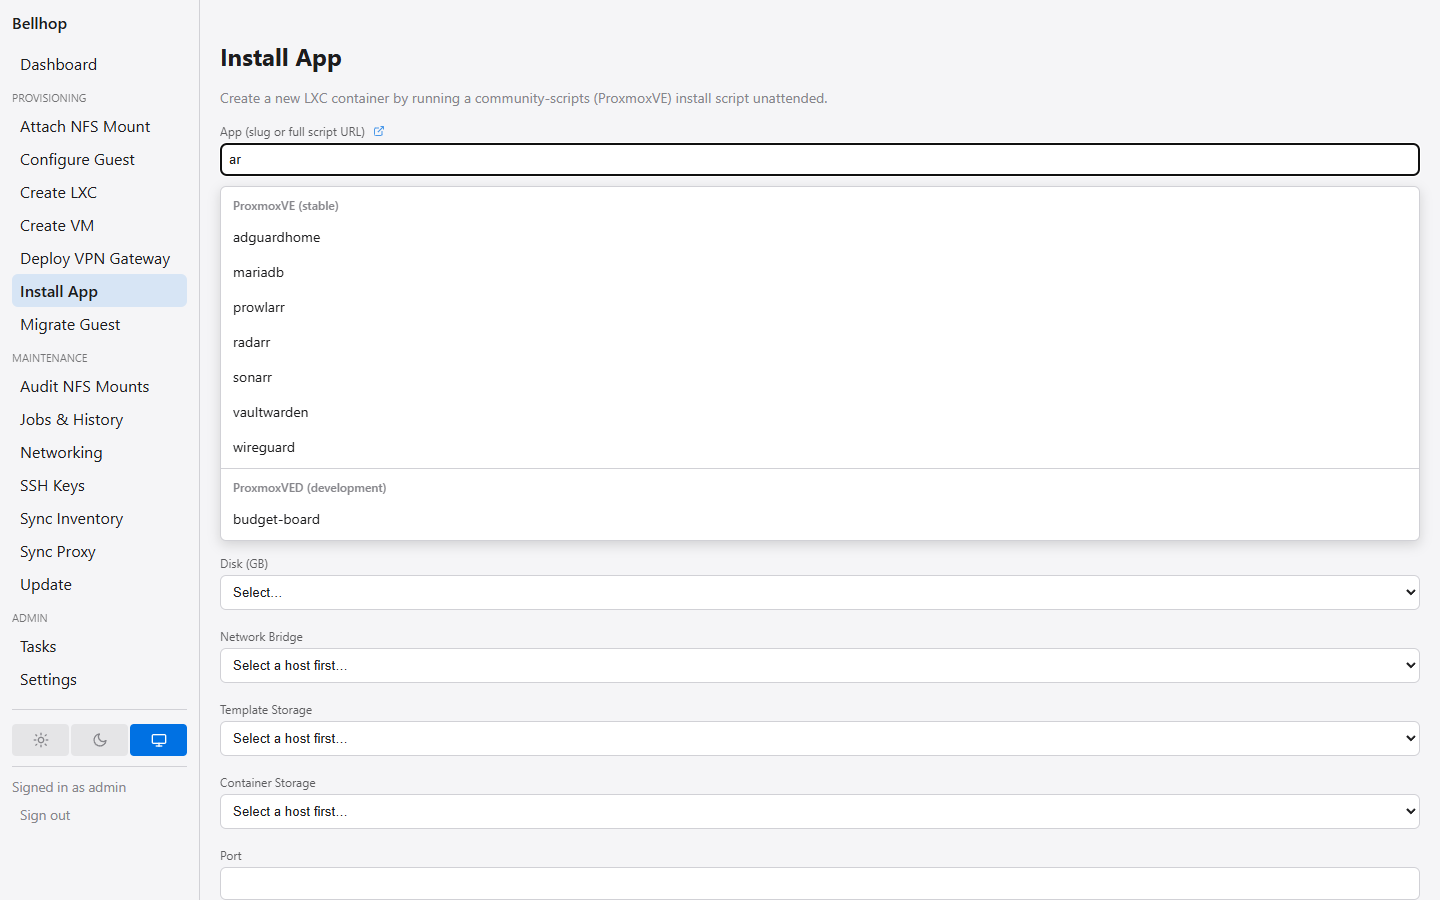
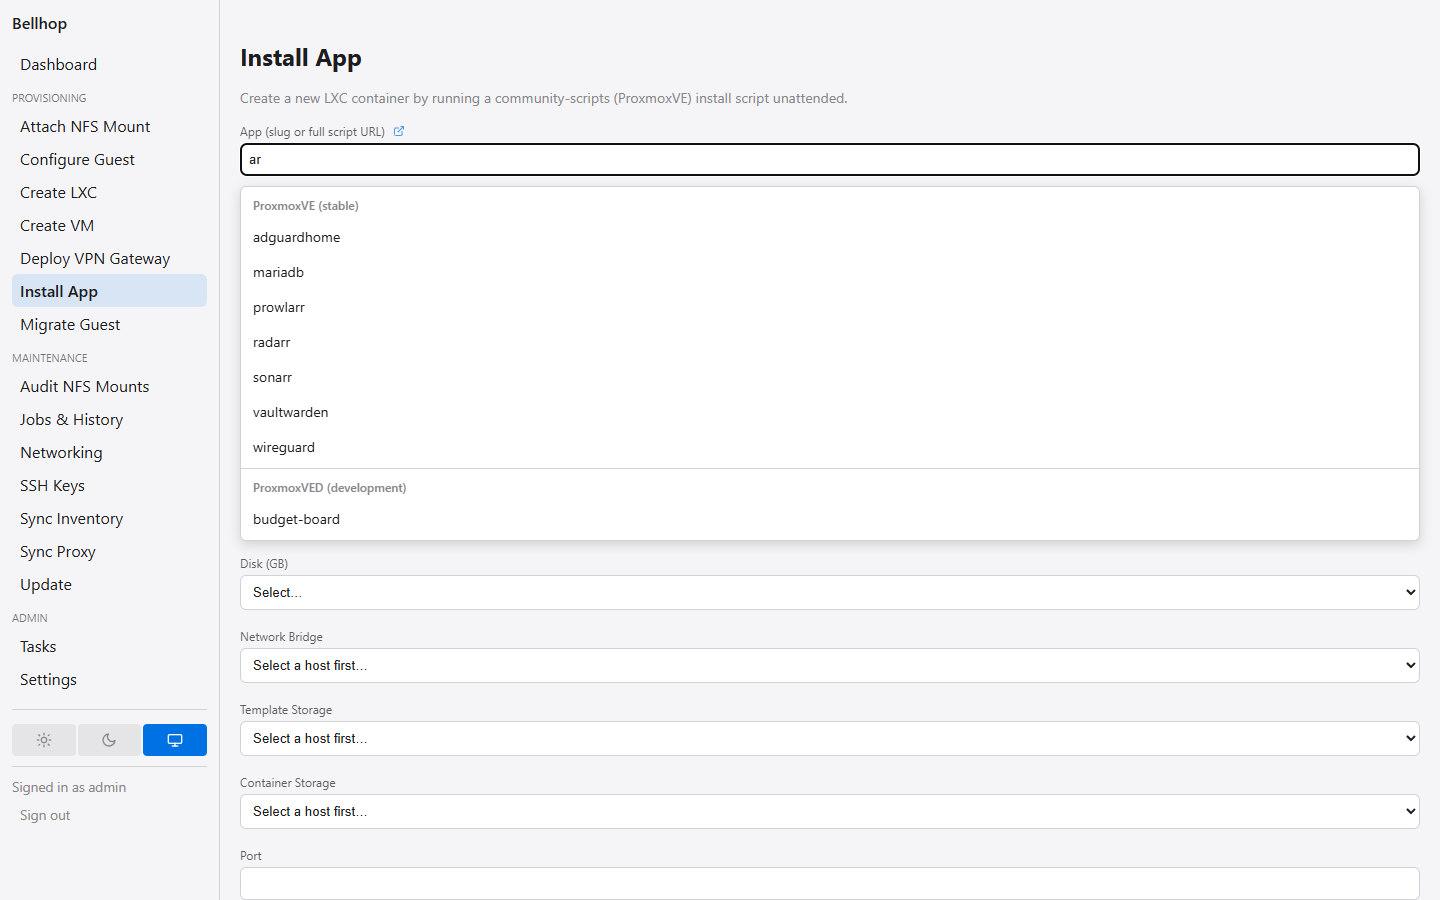
Keep sidebar nav links on one line at desktop width (#74) (#76)
* Specify one-line sidebar nav links (#74)

Claude-Session: https://claude.ai/code/session_01B4st1jNszQVe28BDeVWveJ

* Plan one-line sidebar nav links (#74)

Claude-Session: https://claude.ai/code/session_01B4st1jNszQVe28BDeVWveJ

* Generate tasks for one-line sidebar nav links (#74)

Claude-Session: https://claude.ai/code/session_01B4st1jNszQVe28BDeVWveJ

* Keep sidebar nav links on one line at desktop width (#74, US1, US2)

The 200px sidebar fit "Deploy VPN Gateway" only while no scroll bar
showed; once the nav overflowed, the classic scroll bar narrowed the
column, the label wrapped, and the list grew taller still. The column is
now 220px, never shrinks in the flex row, and its links never wrap
(an ellipsis catches any future longer label). The mobile drawer keeps
its own 240px rule.

Claude-Session: https://claude.ai/code/session_01B4st1jNszQVe28BDeVWveJ

* Regenerate docs screenshots for the wider sidebar; mark #74 verification tasks complete

Typecheck clean, 2770/2770 tests pass (2 skipped), web build succeeds.
The phone screenshot and the guest-access modal crop are unchanged.

Claude-Session: https://claude.ai/code/session_01B4st1jNszQVe28BDeVWveJ

---------

diff --git a/web-client/src/index.css b/web-client/src/index.css
@@ -39,9 +39,10 @@
 * { box-sizing: border-box; }
 body { margin: 0; font-family: system-ui, sans-serif; background: var(--bg-primary); color: var(--text-primary); }
 .app-shell { display: flex; height: 100vh; }
-.sidebar { width: 200px; border-right: 1px solid var(--border); padding: 12px; overflow-y: auto; }
+/* 220px fits the widest nav label ("Deploy VPN Gateway") even with a classic scroll bar showing, and links never wrap (issue #74) -- a wrapped label made the list taller, which brought the scroll bar, which narrowed the column further. */
+.sidebar { width: 220px; flex-shrink: 0; border-right: 1px solid var(--border); padding: 12px; overflow-y: auto; }
 .sidebar .brand { font-weight: 600; margin-bottom: 14px; }
-.sidebar a { display: block; padding: 6px 8px; border-radius: 6px; text-decoration: none; color: inherit; }
+.sidebar a { display: block; padding: 6px 8px; border-radius: 6px; text-decoration: none; color: inherit; white-space: nowrap; overflow: hidden; text-overflow: ellipsis; }
 .sidebar a.active { background: var(--selected-bg); font-weight: 600; }
 .nav-group-label { margin: 10px 0 4px; opacity: 0.6; text-transform: uppercase; font-size: 11px; }
 

diff --git a/specs/074-widen-sidebar/spec.md b/specs/074-widen-sidebar/spec.md
@@ -1,0 +1,80 @@
+# Feature Specification: Widen the desktop sidebar so nav links stay on one line
+
+**Feature Branch**: `issue-74-widen-sidebar`
+
+**Created**: 2026-10-04
+
+**Status**: Draft
+
+**Input**: Issue #74 — the desktop sidebar is too narrow for the "Deploy VPN Gateway" nav link; the label wraps onto a second line, which makes the nav list tall enough to show a vertical scroll bar in the sidebar.
+
+## Background
+
+The desktop sidebar is a fixed 200px column. Measured in the demo instance, "Deploy VPN Gateway" needs about 150px of text against a usable width of about 159px, so it fits only while the sidebar shows no scroll bar. Once the nav list is tall enough to scroll (a real deployment adds the Users and Permissions links and the impersonation picker to what the demo shows), a classic always-visible scroll bar (about 15px on Windows) narrows the column, the label wraps, and the wrapped line makes the list taller still. The wrap and the scroll bar feed each other.
+
+## User Scenarios & Testing *(mandatory)*
+
+### User Story 1 - Every nav link reads on one line at desktop width (Priority: P1)
+
+An operator using the web UI on a desktop browser sees every sidebar link, including "Deploy VPN Gateway", on a single line, and the sidebar does not show a scroll bar at a normal desktop window height.
+
+**Why this priority**: This is the whole issue — the wrapped label looks broken and the scroll bar it causes wastes width and suggests hidden content.
+
+**Independent Test**: Open the web UI at a desktop width (for example a 1920x1080 window) as an admin, so the full admin nav shows; check that no link wraps and the sidebar has no scroll bar.
+
+**Acceptance Scenarios**:
+
+1. **Given** a desktop-width window, **When** the sidebar renders, **Then** every nav link occupies exactly one line.
+2. **Given** a desktop-width window of normal height (1920x1080) and an admin with the full nav (Users, Permissions, Settings, impersonation picker), **When** the sidebar renders, **Then** its content fits without a vertical scroll bar.
+3. **Given** a shorter window where the nav does need to scroll, **When** the scroll bar appears, **Then** no link wraps because of the narrower column.
+
+---
+
+### User Story 2 - The mobile drawer is unchanged (Priority: P2)
+
+An operator on a phone (viewport 640px wide or narrower) opens the off-canvas navigation drawer and sees it exactly as before: same width, every link readable, closing on backdrop tap or link tap.
+
+**Why this priority**: Mobile is a first-class target; the fix must not regress it.
+
+**Independent Test**: Open the web UI at a 390px-wide viewport, open the drawer, and compare against the current behavior.
+
+**Acceptance Scenarios**:
+
+1. **Given** a viewport of 640px or narrower, **When** the drawer is opened, **Then** it keeps its existing width and every link is fully readable on one line.
+
+### Edge Cases
+
+- A future nav label longer than the column: it stays on one line and is truncated with an ellipsis rather than wrapping or widening the layout.
+- Very short windows: the sidebar may still scroll, which is expected; links still do not wrap.
+- Larger browser text size or zoom: links stay on one line (truncating if necessary) rather than wrapping.
+
+## Requirements *(mandatory)*
+
+### Functional Requirements
+
+- **FR-001**: At desktop widths (above 640px), the sidebar MUST be wide enough that every current nav link label fits on one line, with room for a classic scroll bar.
+- **FR-002**: Sidebar nav links MUST never wrap onto a second line at any width; a label that does not fit MUST be truncated with an ellipsis.
+- **FR-003**: At a 1920x1080 desktop window with the full admin nav, the sidebar MUST show no vertical scroll bar.
+- **FR-004**: The mobile off-canvas drawer (640px and narrower) MUST keep its existing width and behavior.
+- **FR-005**: The main content area MUST still fill the remaining width; the wider sidebar MUST NOT introduce horizontal page scrolling at common desktop widths (1280px and up).
+
+### Non-goals
+
+- Reordering, renaming, or regrouping nav items.
+- Changing the sidebar's vertical spacing.
+- A collapsible or resizable sidebar.
+
+## Success Criteria *(mandatory)*
+
+### Measurable Outcomes
+
+- **SC-001**: 0 nav links render on more than one line at desktop width, with or without a scroll bar showing.
+- **SC-002**: At a 1920x1080 window with the full admin nav, the sidebar content height is no greater than its visible height (no scroll bar).
+- **SC-003**: At a 390px-wide viewport, the drawer's width and link layout match the current release.
+
+## Assumptions
+
+- A 220px column is enough: the widest current label is about 150px of text, plus 16px link padding, 24px sidebar padding, a 1px border, and about 15px for a classic scroll bar (about 206px total).
+- "Normal desktop height" means a 1920x1080 window (roughly 950px of usable viewport height).
+- Only the web client stylesheet changes; no server or API behavior is affected.
+- Verification is a browser check at desktop and mobile widths; the project has no automated CSS layout tests.

diff --git a/specs/074-widen-sidebar/tasks.md b/specs/074-widen-sidebar/tasks.md
@@ -1,0 +1,60 @@
+---
+
+description: "Task list for #74, widen the desktop sidebar"
+---
+
+# Tasks: Widen the desktop sidebar so nav links stay on one line
+
+**Input**: Design documents from `specs/074-widen-sidebar/`
+
+**Prerequisites**: plan.md, spec.md, research.md, quickstart.md
+
+**Tests**: No automated tests are requested. The project has no CSS layout tests; each story is verified in a browser per quickstart.md, and the existing suites are run as regression checks.
+
+## Phase 1: Setup
+
+No setup: the worktree has its dependencies installed and the demo instance (`npm run demo`) is available.
+
+## Phase 2: Foundational
+
+None.
+
+## Phase 3: User Story 1 - Every nav link reads on one line at desktop width (Priority: P1) 🎯 MVP
+
+**Goal**: At desktop width, no sidebar link wraps and, at 1920x1080 with the full admin nav, the sidebar shows no scroll bar.
+
+**Independent Test**: quickstart.md steps 1-4.
+
+- [x] T001 [US1] In `web-client/src/index.css`, change the desktop `.sidebar` rule from `width: 200px` to `width: 220px` and add `flex-shrink: 0` (research R2, R3); leave the 640px media query's `.sidebar` rule untouched
+- [x] T002 [US1] In `web-client/src/index.css`, add `white-space: nowrap; overflow: hidden; text-overflow: ellipsis;` to the existing `.sidebar a` rule (research R3)
+- [x] T003 [US1] Update the "static 200px column" sentence in the "Web UI responsiveness/theming" bullet of `CLAUDE.md` to describe the 220px column whose links never wrap (truncating with an ellipsis)
+- [x] T004 [US1] Rebuild (`npm run web:build`) and run quickstart.md steps 1-4 against `npm run demo` at a 1920x1080 window: sidebar 220px, no link taller than one line, no scroll bar with the admin nav simulated, still one line when the window is short enough to scroll, no horizontal page scroll at 1280px
+
+**Checkpoint**: US1 complete and verified.
+
+## Phase 4: User Story 2 - The mobile drawer is unchanged (Priority: P2)
+
+**Goal**: The ≤640px drawer keeps its 240px width and behavior.
+
+**Independent Test**: quickstart.md step 5.
+
+- [x] T005 [US2] Run quickstart.md step 5 at a 390px-wide viewport against `npm run demo` (built from T001-T002's `web-client/src/index.css`): drawer 240px wide, every link on one line, backdrop tap closes it
+
+## Phase 5: Polish & Cross-Cutting Concerns
+
+- [x] T006 Regenerate the docs screenshots with `npm run docs:screenshots` into `docs/images/` and check each by eye for the wider sidebar and example-only values (constitution Principle I)
+- [x] T007 Run `npm run typecheck`, `npm test`, and `npm run web:build`; all pass
+
+## Dependencies & Execution Order
+
+- T001 → T002 (same file) → T004; T003 is independent of the CSS.
+- US2 (T005) depends on T001-T002 only, not on US1's verification.
+- T006 depends on T001-T002; T007 runs last.
+
+## Parallel Opportunities
+
+- T003 [docs] can be done alongside T001-T002; T004 and T005 are both browser checks against the same demo build and can run back to back in one session.
+
+## Implementation Strategy
+
+MVP is US1 (T001-T004). US2 is a verification-only story confirming no regression. Commit US1 and US2 together since they share the one CSS change, then the screenshots and regression checks.

diff --git a/specs/074-widen-sidebar/plan.md b/specs/074-widen-sidebar/plan.md
@@ -1,0 +1,70 @@
+# Implementation Plan: Widen the desktop sidebar so nav links stay on one line
+
+**Branch**: `issue-74-widen-sidebar` | **Date**: 2026-10-04 | **Spec**: [spec.md](spec.md)
+
+**Input**: Feature specification from `specs/074-widen-sidebar/spec.md`
+
+## Summary
+
+The desktop sidebar is 200px wide and its links may wrap. "Deploy VPN Gateway" fits only while no scroll bar shows; once the nav scrolls, the scroll bar narrows the column, the label wraps, and the list grows. The fix is two CSS rules in `web-client/src/index.css`: widen the desktop `.sidebar` to 220px (and stop it shrinking in the flex row), and give `.sidebar a` `white-space: nowrap` with an ellipsis for overflow. The mobile drawer rule inside the 640px media query already sets its own 240px width and is unchanged. The CLAUDE.md note describing the "static 200px column" and the docs screenshots that show the sidebar are updated to match.
+
+## Technical Context
+
+**Language/Version**: CSS (web client built with Vite; React + TypeScript components untouched)
+
+**Primary Dependencies**: none new
+
+**Storage**: N/A
+
+**Testing**: no automated CSS layout tests exist; verification is a browser check (quickstart.md) at desktop and mobile widths, plus the existing `npm run typecheck`, `npm test`, `npm run web:build` as regression checks
+
+**Target Platform**: desktop and mobile browsers
+
+**Project Type**: web application (web-client front end)
+
+**Performance Goals**: N/A
+
+**Constraints**: mobile drawer (≤640px) unchanged; no horizontal page scroll at 1280px and wider
+
+**Scale/Scope**: one stylesheet, one CLAUDE.md sentence, regenerated docs screenshots
+
+## Constitution Check
+
+| Principle | Status | Notes |
+|---|---|---|
+| I. No real operational data | PASS | No data touched. Screenshots are regenerated from the demo instance (example data only) and checked by eye. |
+| II. Code quality | PASS | CSS only; follows existing stylesheet conventions. |
+| III. Testing standards | PASS | Browser verification at desktop and ≤640px viewports, as the constitution requires for a web UI change. No logic to unit-test. |
+| Docs in sync | PASS | CLAUDE.md "static 200px column" updated; screenshots regenerated per the demo-instance workflow convention. |
+
+Post-design re-check: unchanged, PASS.
+
+## Project Structure
+
+### Documentation (this feature)
+
+```text
+specs/074-widen-sidebar/
+├── spec.md
+├── plan.md
+├── research.md
+├── quickstart.md
+├── checklists/requirements.md
+└── tasks.md
+```
+
+No `data-model.md` or `contracts/`: the change has no entities and no interfaces.
+
+### Source Code (repository root)
+
+```text
+web-client/src/index.css   # .sidebar width + flex-shrink; .sidebar a nowrap/ellipsis
+CLAUDE.md                  # "static 200px column" -> 220px
+docs/images/*.png          # regenerated with npm run docs:screenshots
+```
+
+**Structure Decision**: single stylesheet edit in the existing web client.
+
+## Complexity Tracking
+
+None.

diff --git a/specs/074-widen-sidebar/research.md b/specs/074-widen-sidebar/research.md
@@ -1,0 +1,28 @@
+# Research: Widen the desktop sidebar (#74)
+
+## R1 — Why the label wraps
+
+- **Finding**: Measured in the demo instance (system-ui, 16px): "Deploy VPN Gateway" is 150px of text. The 200px sidebar, minus 24px padding, a 1px border and 16px link padding, leaves 159px. It fits with no scroll bar. A classic Windows scroll bar takes about 15px, leaving about 144px, so the label wraps as soon as the nav overflows vertically. A real deployment shows Users, Permissions and the impersonation picker on top of the demo's nav, so it overflows at ordinary heights. The wrapped line adds about 24px of height, which makes the overflow worse.
+- **Decision**: Fix the width so the widest label fits even with a scroll bar, and forbid wrapping outright.
+
+## R2 — Width
+
+- **Decision**: 220px.
+- **Rationale**: 150 (text) + 16 (link padding) + 24 (sidebar padding) + 1 (border) + about 15 (scroll bar) ≈ 206px, leaving about 14px of headroom for font differences. 220px stays narrower than the 240px mobile drawer and costs the content area only 20px.
+- **Alternatives considered**: `width: max-content` (column follows its widest child) was rejected because the warning and impersonation banners and the picker `<select>` would also drive the width, so a long group name could make the sidebar arbitrarily wide. `scrollbar-gutter: stable` alone reserves the scroll bar's width at all times but still leaves only about 144px, so the label would always wrap at 200px.
+
+## R3 — Never wrap
+
+- **Decision**: `.sidebar a { white-space: nowrap; overflow: hidden; text-overflow: ellipsis; }` together with `flex-shrink: 0` on `.sidebar`.
+- **Rationale**: `nowrap` guarantees one line per link; the ellipsis keeps a future longer label (or a large browser text size) from overflowing the column. `flex-shrink: 0` keeps the flex row from squeezing the sidebar below 220px when the content area has wide content (tables). The rule applies to the sign-out link too, which is short.
+- **Alternatives considered**: a smaller font for links, rejected as a visual change the issue didn't ask for.
+
+## R4 — Mobile drawer
+
+- **Finding**: Inside `@media (max-width: 640px)`, `.sidebar` sets `width: 240px; max-width: 80vw`, which overrides the desktop width. `nowrap` + ellipsis also applies there; at 240px every current label fits, and on a very narrow phone (80vw) a long label truncates instead of wrapping.
+- **Decision**: No change to the media query.
+
+## R5 — Vertical fit at 1920x1080
+
+- **Finding**: Demo nav content measured about 737px tall. A real admin deployment adds Users and Permissions (about 66px) and the impersonation picker (about 100px), about 900px total, inside a 1920x1080 window's roughly 950px of viewport. With no wrapped line, it fits; the old wrap pushed it to the edge.
+- **Decision**: No spacing change (a non-goal); verify in the browser with the admin nav simulated.

diff --git a/specs/074-widen-sidebar/quickstart.md b/specs/074-widen-sidebar/quickstart.md
@@ -1,0 +1,40 @@
+# Quickstart: verify #74
+
+## Prerequisites
+
+```sh
+npm install && npm --prefix web-client install
+npm run web:build
+npm run demo          # http://127.0.0.1:3100, example data only
+```
+
+## Desktop (1920x1080 window)
+
+1. Open the Dashboard. In devtools, run:
+   ```js
+   const s = document.querySelector('.sidebar');
+   [s.getBoundingClientRect().width, s.scrollHeight <= s.clientHeight,
+    [...s.querySelectorAll('a')].filter(a => a.getClientRects().length && a.getBoundingClientRect().height > 40).map(a => a.textContent)]
+   ```
+   Expect `220`, `true`, `[]` (no link taller than one line).
+2. Simulate the full admin nav (the demo has no Authentik directory, so Users, Permissions and the picker are absent): clone two links and a block of about 100px into the sidebar, then rerun the check. Expect no scroll bar (`scrollHeight <= clientHeight`).
+3. Shrink the window height until the sidebar scrolls. Expect "Deploy VPN Gateway" still on one line.
+4. At a 1280px-wide window, expect no horizontal page scroll bar.
+
+## Mobile (390px wide)
+
+5. Open the hamburger menu. Expect the drawer at 240px, every link on one line, the backdrop closing it.
+
+## Regression checks
+
+```sh
+npm run typecheck && npm test && npm run web:build
+```
+
+## Screenshots
+
+```sh
+npm run docs:screenshots
+```
+
+Check the regenerated `docs/images/*.png` by eye for example-only values and the wider sidebar.

diff --git a/specs/074-widen-sidebar/checklists/requirements.md b/specs/074-widen-sidebar/checklists/requirements.md
@@ -1,0 +1,34 @@
+# Specification Quality Checklist: Widen the desktop sidebar so nav links stay on one line
+
+**Purpose**: Validate specification completeness and quality before proceeding to planning
+**Created**: 2026-10-04
+**Feature**: [spec.md](../spec.md)
+
+## Content Quality
+
+- [x] No implementation details (languages, frameworks, APIs)
+- [x] Focused on user value and business needs
+- [x] Written for non-technical stakeholders
+- [x] All mandatory sections completed
+
+## Requirement Completeness
+
+- [x] No [NEEDS CLARIFICATION] markers remain
+- [x] Requirements are testable and unambiguous
+- [x] Success criteria are measurable
+- [x] Success criteria are technology-agnostic (no implementation details)
+- [x] All acceptance scenarios are defined
+- [x] Edge cases are identified
+- [x] Scope is clearly bounded
+- [x] Dependencies and assumptions identified
+
+## Feature Readiness
+
+- [x] All functional requirements have clear acceptance criteria
+- [x] User scenarios cover primary flows
+- [x] Feature meets measurable outcomes defined in Success Criteria
+- [x] No implementation details leak into specification
+
+## Notes
+
+- Pixel widths appear in the spec and assumptions because the issue itself is about a measured layout width; they describe the outcome, not the implementation.

diff --git a/CLAUDE.md b/CLAUDE.md
@@ -3067,8 +3067,9 @@ how to reach a target and is the only code that talks to `ssh2` directly:
   layout — there is no intermediate tablet breakpoint. Below it, `Sidebar`
   becomes an off-canvas drawer (fixed, translated off-screen, toggled by a
   hamburger button, closes on backdrop tap or nav-link click) instead of
-  the static 200px column used above it. Every `.data-table` (Dashboard's
-  Hosts/Bridges/Storage/Guests tables, JobHistory's Jobs table) switches to
+  the static 220px column used above it, whose nav links never wrap --
+  they truncate with an ellipsis instead (issue #74). Every `.data-table`
+  (Dashboard's Hosts/Bridges/Storage/Guests tables, JobHistory's Jobs table) switches to
   a card layout below the breakpoint — `table`/`tbody`/`tr`/`td` become
   `display: block`, and each `<td>` carries a `data-label="…"` attribute
   matching its column header, shown via CSS `::before` since `<thead>` is
